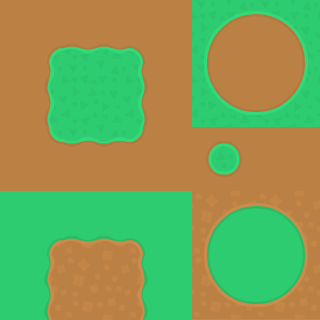
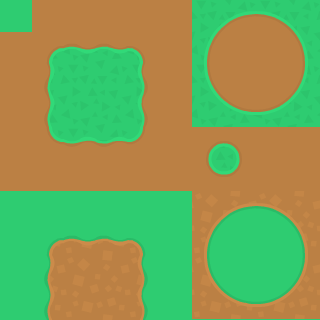
Icono de la ventana, cambio de nombre y arreglo de bugs

Changed region(s): [[0.0, 0.0, 0.125, 0.125]]

diff --git a/src/Juego/Juego.java b/src/Juego/Juego.java
@@ -11,6 +11,8 @@ import java.awt.image.BufferedImage;
 import java.awt.image.DataBufferInt;
 import java.util.logging.Level;
 import java.util.logging.Logger;
+import javax.swing.ImageIcon;
+
 
 import javax.swing.JFrame;
 
@@ -23,7 +25,7 @@ public class Juego extends Canvas implements Runnable {
     
     private static volatile boolean enFuncionamiento = false;
     
-    private static final String NOMBRE = "Juego";
+    private static final String NOMBRE = "Dungeons & Raids";
     
     private static int aps = 0;
     private static int fps = 0;
@@ -42,6 +44,9 @@ public class Juego extends Canvas implements Runnable {
             ANCHO, ALTO, BufferedImage.TYPE_INT_RGB);
     private static int [] pixeles = ((DataBufferInt) imagen.getRaster().getDataBuffer()).getData();
     
+    //Icono de la App\
+    private static final ImageIcon icono = new ImageIcon(Juego.class.getResource("/Juego/ico.png"));
+    
     //CONSTRUCTOR PRINCIPAL DEL JUEGO
     public Juego(){
         setPreferredSize(new Dimension(ANCHO,ALTO));
@@ -54,6 +59,7 @@ public class Juego extends Canvas implements Runnable {
         ventana = new JFrame(NOMBRE);
         ventana.setDefaultCloseOperation(JFrame.EXIT_ON_CLOSE);
         ventana.setResizable(false);
+        ventana.setIconImage(icono.getImage());
         ventana.setLayout(new BorderLayout());
         ventana.add(this,BorderLayout.CENTER);
         ventana.pack();
@@ -88,16 +94,16 @@ public class Juego extends Canvas implements Runnable {
         teclado.actualizar();
         
         if (teclado.arriba){
-            System.out.println("arriba");
+            y++;
         }
          if (teclado.abajo){
-            System.out.println("abajo");
+             y--;
         }
           if (teclado.derecha){
-            System.out.println("derecha");
+              x--;
         }
            if (teclado.izquierda){
-            System.out.println("izquierda");
+               x++;           
         }
         
         aps++;
@@ -141,11 +147,10 @@ public class Juego extends Canvas implements Runnable {
     
     
    
-    public void run() {
-        System.out.println("El Thread 2 se esta ejecutando con exito!");
+    public void run() {       
         System.nanoTime();
         final int NS_POR_SEGUNDO = 1000000000;
-        final byte APS_OBJETIVO = 60;
+        final byte APS_OBJETIVO = 80;
         final double NS_POR_ACTUALIZACION = NS_POR_SEGUNDO / APS_OBJETIVO;
         
         long referenciaActualizacion = System.nanoTime();
@@ -175,7 +180,8 @@ public class Juego extends Canvas implements Runnable {
             mostrar();
         
             if (System.nanoTime() - referenciaContador > NS_POR_SEGUNDO){
-                ventana.setTitle(NOMBRE+ "||| APS: " + aps + " || FPS: " + fps);
+                ventana.setTitle(NOMBRE+ "||| APS: <" + aps + "> || FPS: <" + fps +">");
+                System.out.println(fps);
                 aps = 0;
                 fps = 0;
                 referenciaContador = System.nanoTime();

diff --git a/src/graficos/Pantalla.java b/src/graficos/Pantalla.java
@@ -41,7 +41,7 @@ public class Pantalla {
                 }
                  
                  //TEMPORAL
-                pixeles[posicionX + posicionY * ancho] = Sprite.tierra.pixeles[(
+                pixeles[posicionX + posicionY * ancho] = Sprite.cesped.pixeles[(
                         x & MASCARA_SPRITE) + (y & MASCARA_SPRITE) * LADO_SPRITE];
                  
             }

diff --git a/src/graficos/Sprite.java b/src/graficos/Sprite.java
@@ -10,7 +10,7 @@ public final class Sprite {
     private final HojaSprites hoja;
     
     //coleccion de sprites
-    public static Sprite tierra = new Sprite(32, 0, 0, HojaSprites.mine);
+    public static Sprite cesped = new Sprite(32, 0, 0, HojaSprites.mine);
        
     //fin de la coleccion
     
